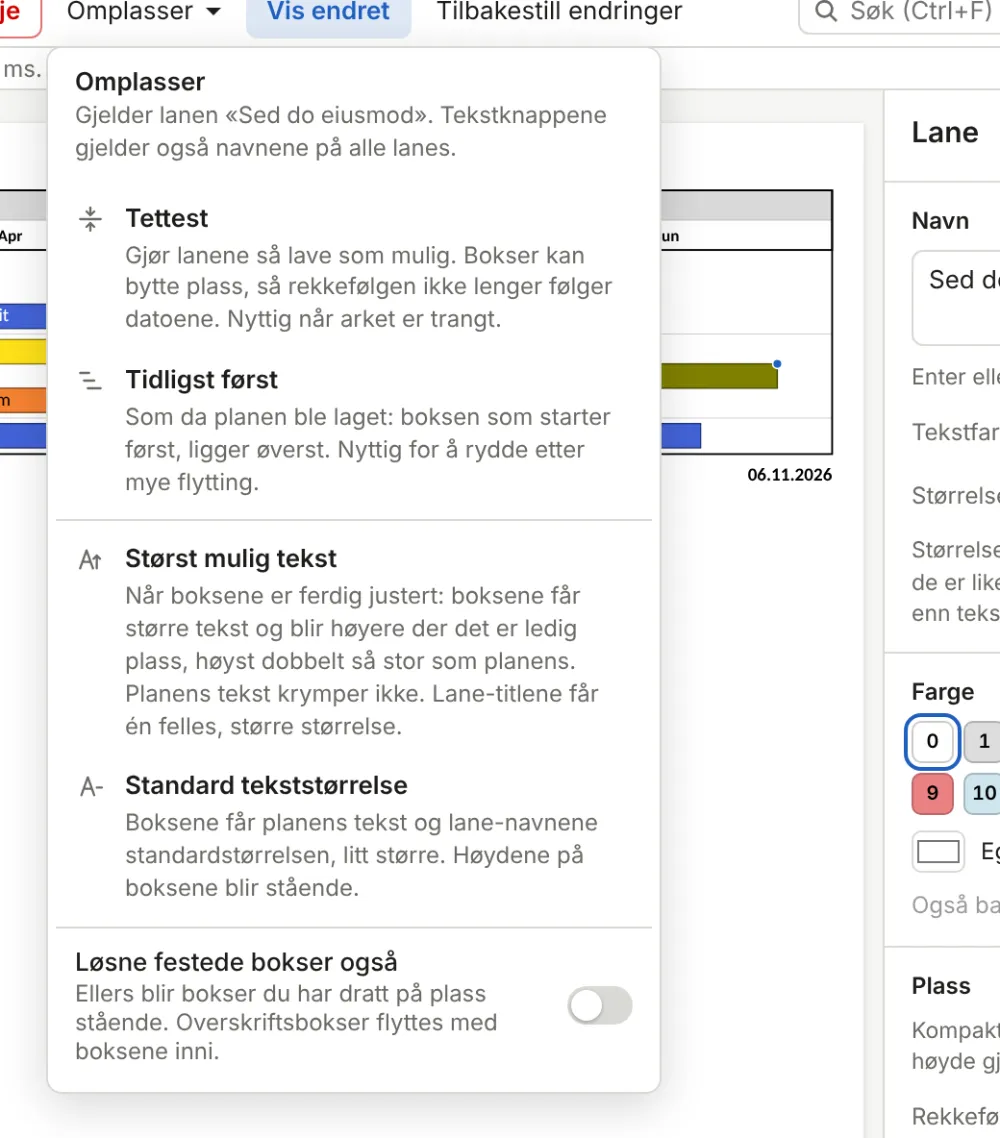
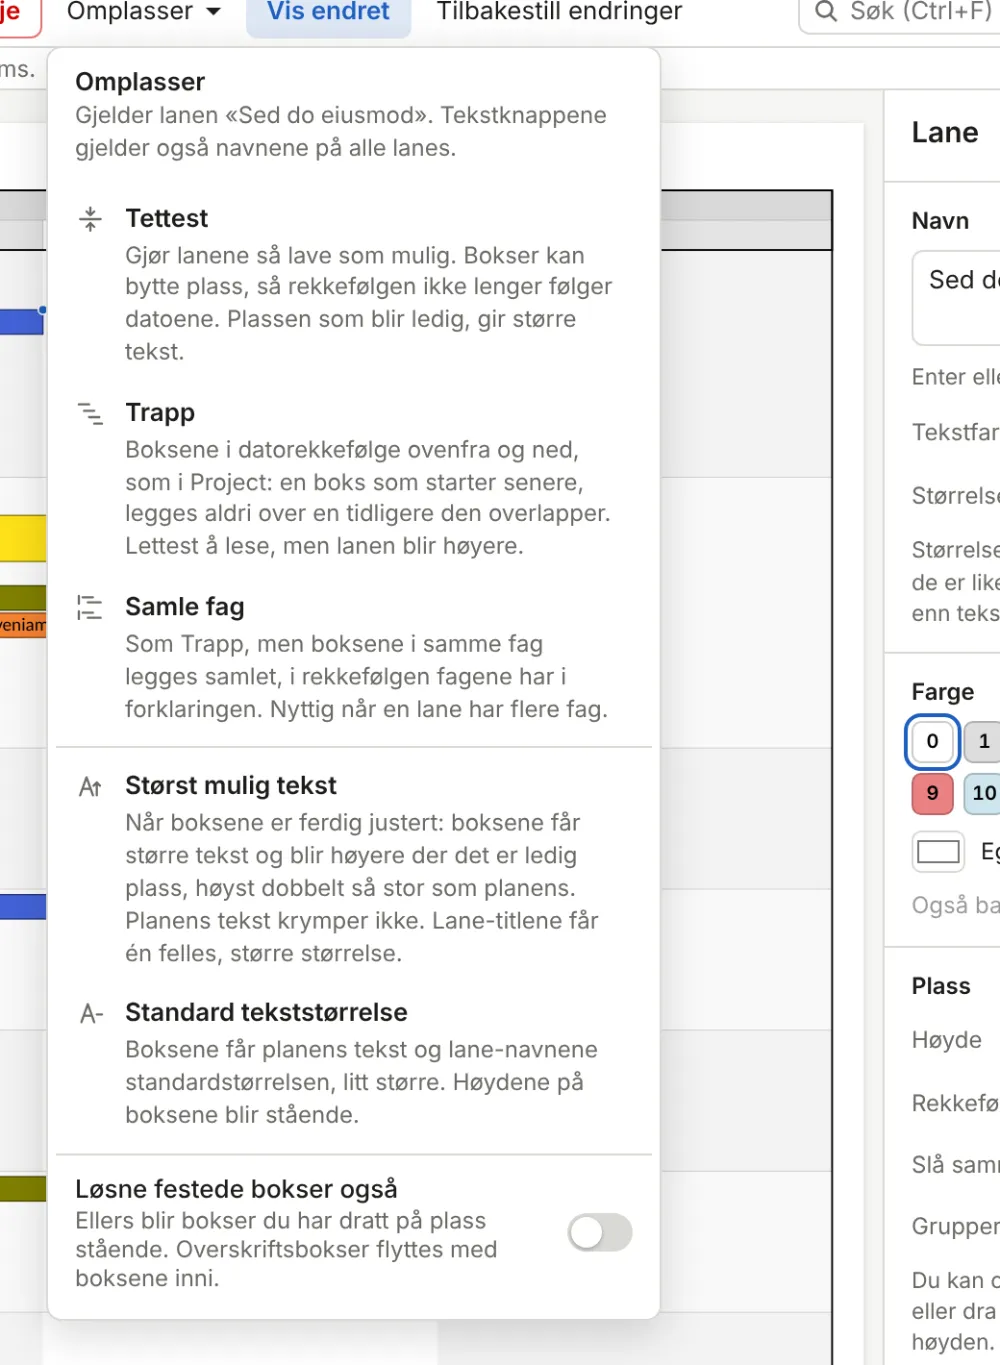
Omplasser: Trapp og Samle fag i stedet for Tidligst først, tydeligere Tettest
- Trapp: en boks som starter senere, legges aldri over en tidligere den overlapper.
- Samle fag: samme trapp, men gruppert på fag i forklaringens rekkefølge.
- Tettest søker på nytt ved ny tekststørrelse, og linjen øverst viser
  hvor mye lavere lanen ble, ny tekststørrelse og knappen Størst mulig tekst.
- Hjelpen forklarer de tre måtene med bilder før og etter hver av dem.

Claude-Session: https://claude.ai/code/session_01B5pQjgQFecxc1arbokWnNe

diff --git a/src/arrangeui.ts b/src/arrangeui.ts
@@ -1,7 +1,7 @@
 // «Omplasser» og «Størst mulig tekst» i redigeringen: menyen, forslaget, og linjen under verktøyene
 // der endringen kan beholdes eller angres. Boksene som ble flyttet, merkes til det er avgjort.
 import type { PlanFile } from './format/types';
-import type { ArrangeOptions, ArrangeResult, Item, Layout } from './layout/layout';
+import type { ArrangeMode, ArrangeOptions, ArrangeResult, Item, Layout } from './layout/layout';
 import { plainText } from './format/text';
 import { resetTextSizes, type FitTextResult, type FitTextScope } from './layout/fittext';
 import { bounds, findBox, findLane, inHeaderBox, laneOf, lines, samePlanApartFromImages, snapshotOf, unpinBox } from './editmodel';
@@ -30,8 +30,8 @@ export interface ArrangeUi {
   readonly moved: ReadonlySet<string>;
   /** Merker boksene som ble flyttet. */
   mark(ids: Iterable<string>): void;
-  /** Viser linjen med teksten, med «Behold» og «Angre», eller bare «Lukk». */
-  show(text: string, canUndo: boolean): void;
+  /** Viser linjen med teksten, med «Behold» og «Angre», eller bare «Lukk». offerFit: også «Størst mulig tekst». */
+  show(text: string, canUndo: boolean, offerFit?: boolean): void;
   /** Godtar endringen: linjen og merkingen blir borte. */
   end(): void;
 }
@@ -65,9 +65,11 @@ export function createArrangeUi(h: ArrangeHost): ArrangeUi {
     h.overlay();
   };
 
-  const show = (text: string, canUndo: boolean) => {
+  const show = (text: string, canUndo: boolean, offerFit = false) => {
     if (!bar) return;
     bar.querySelector('.arrange-text')!.textContent = text;
+    const fit = bar.querySelector<HTMLButtonElement>('#arrange-fit');
+    if (fit) fit.hidden = !offerFit;
     bar.querySelector<HTMLButtonElement>('#arrange-keep')!.textContent = canUndo ? 'Behold' : 'Lukk';
     bar.querySelector<HTMLButtonElement>('#arrange-undo')!.hidden = !canUndo;
     bar.hidden = false;
@@ -90,7 +92,7 @@ export function createArrangeUi(h: ArrangeHost): ArrangeUi {
     !!a && a.lane === b.lane && a.side === b.side && Math.abs(a.y - b.y) < 0.5;
   const contentLines = (L: Layout, ids: Set<string>) => L.lanes.filter((l) => ids.has(l.id)).reduce((s, l) => s + l.minH / L.unit, 0);
 
-  const arrange = (mode: 'tight' | 'chrono') => {
+  const arrange = (mode: ArrangeMode) => {
     const plan = h.getPlan();
     const before = h.layout();
     if (!plan || !before) return;
@@ -126,36 +128,51 @@ export function createArrangeUi(h: ArrangeHost): ArrangeUi {
       delete l.order;
       if (unpin) for (const b of l.boxes) if (inGroup.has(b.id) || (!b.header && (!boxIds || boxIds.has(b.id)))) unpinBox(b);
     }
-    if (mode === 'tight' || groups.size) {
-      const res = h.arrange(next, laneIds, { mode, groups });
+    /** again: andre søk i Tettest, der ingen ny rekkefølge betyr at den som er funnet, beholdes. */
+    const apply = (res: ArrangeResult, again = false) => {
       for (const [id, order] of res.orders) {
         const l = findLane(next, id);
-        if (l && order) l.order = order;
+        if (!l) continue;
+        if (order) l.order = order;
+        else if (!again) delete l.order;
       }
       for (const [id, top] of res.pins) {
         const b = findBox(next, id);
-        if (b) b.top = top;
+        if (!b) continue;
+        b.top = top;
+        delete b.compactTop;
       }
-    }
+    };
+    apply(h.arrange(next, laneIds, { mode, groups }));
     if (samePlanApartFromImages(next, plan)) {
-      show(mode === 'tight' ? 'Fant ingen tettere plassering. Alt står som før.' : 'Boksene ligger allerede tidligst først.', false);
+      show(mode === 'tight' ? 'Fant ingen tettere plassering. Alt står som før.' : 'Boksene ligger allerede slik. Alt står som før.', false);
       return;
     }
     h.beginStep();
     h.setPlan(next);
     h.redraw();
+    // Tettest finner rekkefølgen ved tekststørrelsen planen hadde. Fikk teksten plass til å vokse,
+    // søkes det én gang til ved den nye størrelsen, så forslaget passer teksten som faktisk tegnes.
+    if (mode === 'tight' && h.layout()!.textSizePt !== before.textSizePt) {
+      apply(h.arrange(next, laneIds, { mode, groups: new Map() }), true);
+      h.setPlan(next);
+      h.redraw();
+    }
     const after = h.layout()!;
     const p0 = placeOf(before);
     const p1 = placeOf(after);
     const ids = new Set(laneIds);
     const laneOfItem = new Map(next.lanes.flatMap((l) => l.boxes.map((b) => [b.id, l.id] as const)));
     moved = new Set([...p1].filter(([id, pos]) => ids.has(laneOfItem.get(id) ?? '') && !samePlace(p0.get(id), pos)).map(([id]) => id));
-    const saved = contentLines(before, ids) - contentLines(after, ids);
+    const h0 = contentLines(before, ids);
+    const saved = h0 - contentLines(after, ids);
     const n = moved.size;
     const count = n ? `${n} ${n === 1 ? 'boks' : 'bokser'} flyttet` : 'Ingen bokser flyttet';
-    const lower = saved > 0.05 ? `, ${saved.toLocaleString('nb-NO', { maximumFractionDigits: 1 })} ${saved < 1.05 && saved > 0.95 ? 'linje' : 'linjer'} lavere` : '';
-    const grew = after.textSizePt > before.textSizePt + 1e-6 ? `. Teksten ble ${after.textSizePt.toLocaleString('nb-NO')} pt` : '';
-    show(`${count}${lower}${grew}.`, true);
+    const pct = (v: number) => `${Math.round((Math.abs(v) / h0) * 100)} %`;
+    const what = laneIds.length === 1 ? 'lanen' : 'lanene';
+    const lower = saved > 0.05 ? `, ${what} ble ${pct(saved)} lavere` : saved < -0.05 ? `, ${what} ble ${pct(saved)} høyere` : '';
+    const grew = after.textSizePt > before.textSizePt + 1e-6 ? `. Planens tekst ble ${after.textSizePt.toLocaleString('nb-NO')} pt` : '';
+    show(`${count}${lower}${grew}.`, true, mode === 'tight' && saved > 0.05);
     h.overlay();
     h.refresh();
   };
@@ -200,7 +217,10 @@ export function createArrangeUi(h: ArrangeHost): ArrangeUi {
     if (tip) tip.hidden = !s.whole;
   });
   document.querySelector('#arrange-tight')?.addEventListener('click', () => arrange('tight'));
-  document.querySelector('#arrange-chrono')?.addEventListener('click', () => arrange('chrono'));
+  document.querySelector('#arrange-stair')?.addEventListener('click', () => arrange('stair'));
+  document.querySelector('#arrange-trade')?.addEventListener('click', () => arrange('trade'));
+  // Etter Tettest: bruk plassen som ble ledig til større tekst. Forslaget beholdes først.
+  bar?.querySelector('#arrange-fit')?.addEventListener('click', () => fitText(false));
   bar?.querySelector('#arrange-keep')?.addEventListener('click', () => end());
   bar?.querySelector('#arrange-undo')?.addEventListener('click', () => h.undo());
 

diff --git a/src/layout/layout.ts b/src/layout/layout.ts
@@ -365,6 +365,8 @@ export function packVariants(
   pieces: { alts: { fx0: number; fx1: number; h: number }[]; lock?: number; band?: number; bx?: [number, number] }[],
   gap = GAP,
   limit?: (fx0: number, fx1: number) => [number, number],
+  /** Trapp: en løs brikke legges aldri over en løs brikke foran i rekken som den overlapper i tid. */
+  stair = false,
 ): { y: number; k: number; bad?: boolean; h?: number }[] {
   const placed: { x0: number; x1: number; y0: number; y1: number }[] = [];
   // Overskriftsbokser: for bokser med fast plass er det bare tekstfeltet øverst som er opptatt
@@ -382,15 +384,19 @@ export function packVariants(
   // Overskriftsbokser først ved lik plass, så boksene inne i dem legges oppå
   const locked = order.filter((i) => pieces[i].lock !== undefined).sort((a, b) => lockAt[a]! - lockAt[b]! || (pieces[b].band !== undefined ? 1 : 0) - (pieces[a].band !== undefined ? 1 : 0));
   const free = order.filter((i) => pieces[i].lock === undefined);
+  // Trapp: tidsrommet (selve boksen, uten callout) og bunnen til løse brikker som er lagt
+  const laid: { x0: number; x1: number; y1: number }[] = [];
   for (const i of [...locked, ...free]) {
     // Overskriftsboksene blir høyere når boksene inni dem er skjøvet ned, før resten pakkes rundt dem
     if (i === free[0]) growHeaders();
     const p = pieces[i];
+    const span = p.bx ?? [p.alts[0].fx0, p.alts[0].fx1];
+    const below = stair && p.lock === undefined ? laid.filter((q) => span[0] < q.x1 - 1e-6 && q.x0 < span[1] - 1e-6).reduce((m, q) => Math.max(m, q.y1 + gap), 0) : 0;
     let best = { y: 0, k: 0, score: Infinity, w: Infinity, bad: false };
     p.alts.forEach((v, k) => {
       // Egendefinert planområde: brikken må ligge mellom kantene der den står
       const [lo, hi] = limit ? limit(v.fx0, v.fx1) : [0, Infinity];
-      const y = lowest(v, Math.max(lockAt[i] ?? 0, lo), p.lock !== undefined);
+      const y = lowest(v, Math.max(lockAt[i] ?? 0, lo, below), p.lock !== undefined);
       const bad = y + v.h > hi + 1e-6;
       // En variant som går utenfor kanten velges bare når ingen andre får plass
       const score = y + v.h + (bad ? 1e6 : 0);
@@ -401,6 +407,7 @@ export function packVariants(
     rectOf.set(i, placed.length);
     placed.push({ x0: v.fx0, x1: v.fx1, y0: best.y, y1: best.y + v.h });
     inner.push({ x0: v.fx0, x1: v.fx1, y0: best.y, y1: best.y + (p.band ?? v.h) });
+    if (stair && p.lock === undefined) laid.push({ x0: span[0], x1: span[1], y1: best.y + v.h });
     out[i] = best.bad ? { y: best.y, k: best.k, bad: true } : { y: best.y, k: best.k };
   }
   if (!free.length) growHeaders();
@@ -721,7 +728,25 @@ function layoutAt(file: PlanFile, opts: LayoutOptions, measure: Measure, scale: 
       const found = arrange.mode === 'tight' ? tightestOrder(work) : null;
       if (found) work = found;
       arrange.out.set(lane.id, found && found.map((p) => p.item.id));
-      if (work.some((p) => arrange.groups.has(p.item.id))) {
+      if (arrange.mode !== 'tight') {
+        // Trapp: i datorekkefølge, eller samlet per fag (i rekkefølgen i forklaringen) og så etter dato.
+        // Plassene lagres som fast plass, så trappen blir stående.
+        const tradeRank = new Map(tradeColors(file).map((c, k) => [c.name, k]));
+        const byId = new Map(lane.boxes.map((b) => [b.id, b]));
+        const rankOf = (p: Piece) => {
+          const b = byId.get(p.item.id);
+          const t = b ? boxTrade(b) : undefined;
+          return t === undefined ? Infinity : (tradeRank.get(t) ?? Infinity - 1);
+        };
+        work.sort((a, b) => (arrange.mode === 'trade' ? rankOf(a) - rankOf(b) : 0) || a.sortX - b.sortX || b.sortW - a.sortW);
+        const placed = packVariants(work.map((p) => ({ alts: p.alts ?? [p], lock: p.lock, band: p.band, bx: boxX(p) })), GAP, undefined, true);
+        work.forEach((p, j) => {
+          if (p.lock !== undefined) return;
+          const top = Math.round((placed[j].y / lh) * 100) / 100;
+          arrange.pins.set(p.item.id, top);
+          for (const k of arrange.groups.get(p.item.id) ?? []) arrange.pins.set(k.id, Math.round((top + k.dy) * 100) / 100);
+        });
+      } else if (work.some((p) => arrange.groups.has(p.item.id))) {
         // Overskriftsbokser har alltid fast plass: der den havnet, og boksene inni like langt ned som før
         const placed = packVariants(work.map((p) => ({ alts: p.alts ?? [p], lock: p.lock, band: p.band })));
         work.forEach((p, j) => {
@@ -1528,8 +1553,11 @@ export function applyOrder<T extends { item: { id: string }; sortX: number }>(pi
   return out;
 }
 
+/** tight: lavest mulig lane. stair: trapp i datorekkefølge. trade: trapp samlet per fag. */
+export type ArrangeMode = 'tight' | 'stair' | 'trade';
+
 export interface ArrangeOptions {
-  mode: 'tight' | 'chrono';
+  mode: ArrangeMode;
   /** Overskriftsbokser som skal flyttes, med boksene inni og hvor langt ned i den de står (tekstlinjer). */
   groups?: Map<string, { id: string; dy: number }[]>;
 }
@@ -1537,13 +1565,13 @@ export interface ArrangeOptions {
 export interface ArrangeResult {
   /** Ny rekkefølge per lane, eller null når den vanlige (tidligst først) er like tett. */
   orders: Map<string, string[] | null>;
-  /** Ny fast plass (tekstlinjer) for overskriftsboksene som ble flyttet og boksene inni dem. */
+  /** Ny fast plass (tekstlinjer): overskriftsboksene som ble flyttet og boksene inni dem, og i trapp alle boksene som ble lagt. */
   pins: Map<string, number>;
 }
 
 interface ArrangeRequest {
   lanes: Set<string>;
-  mode: 'tight' | 'chrono';
+  mode: ArrangeMode;
   groups: Map<string, { id: string; dy: number }[]>;
   out: Map<string, string[] | null>;
   pins: Map<string, number>;

diff --git a/src/help/content.ts b/src/help/content.ts
@@ -291,21 +291,23 @@ export const TOPICS: HelpTopic[] = [
   },
   {
     id: 'omplasser', group: 'Arket', title: 'Omplasser: rydd lanene',
-    text: `${ui('Omplasser')} legger boksene i lanene på plass på nytt. Du velger mellom to måter, ser forslaget på arket med de flyttede boksene merket, og trykker ${ui('Behold')} eller ${ui('Angre')}.`,
-    when: `<strong>Tettest</strong> gjør lanene så lave som mulig. Boksene kan da bytte plass, så den som starter først, ikke alltid ligger øverst. Velg den når arket er trangt og du vil ha plass til større tekst. Den gjør mest når boksene er ulikt høye eller har callouts; ellers blir resultatet ofte det samme som Tidligst først. <strong>Tidligst først</strong> legger boksene i datorekkefølge som da planen ble laget. Velg den for å rydde opp etter mye flytting. Bokser du har dratt på plass, blir stående, med mindre du slår på ${ui('Løsne festede bokser også')}.`,
+    text: `${ui('Omplasser')} legger boksene i lanene på plass på nytt. Du velger mellom tre måter, ser forslaget på arket med de flyttede boksene merket, og trykker ${ui('Behold')} eller ${ui('Angre')}. Linjen øverst sier hvor mange bokser som ble flyttet, og hvor mye lavere eller høyere lanen ble.`,
+    when: `<strong>Tettest</strong> gjør lanene så lave som mulig, og boksene kan da bytte plass. Velg den når arket er trangt. Plassen som blir ledig, gir planen større tekst, og linjen øverst tilbyr ${ui('Størst mulig tekst')} for å bruke resten. <strong>Trapp</strong> legger boksene i datorekkefølge ovenfra og ned, som i Project: en boks som starter senere, havner aldri over en tidligere den overlapper. Den er lettest å lese, men lanen blir høyere. <strong>Samle fag</strong> er en trapp der boksene i samme fag ligger samlet, i rekkefølgen fagene har i forklaringen. Velg den når en lane har flere fag. Bokser du har dratt på plass, blir stående, med mindre du slår på ${ui('Løsne festede bokser også')}.`,
     steps: [
       `Klikk lane-navnet til lanen som er blitt rotete, så gjelder det bare den lanen.`,
-      `Velg ${ui('Omplasser')} › ${ui('Tidligst først')}.`,
-      `Se forslaget. Linjen øverst sier hvor mange bokser som ble flyttet og hvor mye lavere lanen ble. Trykk ${ui('Behold')} eller ${ui('Angre')}.`,
+      `Velg ${ui('Omplasser')} › ${ui('Trapp')}, og slå på ${ui('Løsne festede bokser også')} hvis boksene er dratt på plass.`,
+      `Se forslaget. Er lanen blitt for høy, trykker du ${ui('Angre')} og prøver ${ui('Tettest')} i stedet. Trykk ${ui('Behold')} når du er fornøyd.`,
     ],
     img: {
       frames: [
         { img: 'omplasser-1', label: 'Før', note: 'Etter mye flytting står boksene spredt, med hull mellom. De blå prikkene viser at de er dratt på plass.' },
-        { img: 'omplasser-2', label: 'Etter', note: 'Etter «Tidligst først» med «Løsne festede bokser også»: hullene er borte, og den som starter først, ligger øverst.' },
+        { img: 'omplasser-2', label: 'Tettest', note: 'Lanen ble 21 % lavere. Boksene står tett, men ikke i datorekkefølge.' },
+        { img: 'omplasser-3', label: 'Trapp', note: 'Boksene går i trapp etter startdato. Lettest å lese, men lanen ble høyere.' },
+        { img: 'omplasser-4', label: 'Samle fag', note: 'Hvert fag samlet, i rekkefølgen fra forklaringen, og i trapp innenfor faget.' },
       ],
     },
-    alt: 'En rotete lane før og etter Omplasser › Tidligst først.',
-    words: 'pakke rydde tettest tidligst først stable orden rekkefølge løsne festede', see: ['omplasser-lane', 'skyv', 'tekst'],
+    alt: 'En rotete lane før, og etter Omplasser › Tettest, Trapp og Samle fag.',
+    words: 'pakke rydde tettest trapp samle fag tidligst først datorekkefølge stable orden rekkefølge løsne festede lavere høyere', see: ['omplasser-lane', 'storsttekst', 'skyv'],
   },
   {
     id: 'omplasser-lane', group: 'Arket', title: 'Omplasser bare én lane eller noen bokser',
@@ -317,7 +319,7 @@ export const TOPICS: HelpTopic[] = [
   {
     id: 'storsttekst', group: 'Arket', title: 'Størst mulig tekst',
     text: `${ui('Omplasser')} › ${ui('Størst mulig tekst')} gir hver boks så stor tekst som det er plass til, høyst dobbelt så stor som planens. Boksene blir høyere der det er ledig plass, og lane-navnene får én felles, større størrelse.`,
-    when: `Ta det til slutt, når boksene står der de skal. Da utnytter du den ledige plassen på arket, og planen blir lettere å lese på utskrift. ${ui('Standard tekststørrelse')} tar teksten tilbake.`,
+    when: `Ta det til slutt, når boksene står der de skal. Etter ${ui('Omplasser')} › ${ui('Tettest')} finner du samme knapp i linjen øverst. Da utnytter du den ledige plassen på arket, og planen blir lettere å lese på utskrift. ${ui('Standard tekststørrelse')} tar teksten tilbake.`,
     words: 'tekststørrelse større tekst lesbar fyll plass', see: ['tekst', 'omplasser'],
   },
   {

diff --git a/index.html b/index.html
@@ -322,11 +322,15 @@
       <div class="pm-group">
         <button type="button" id="arrange-tight" class="pm-item">
           <svg class="ctx-ico" viewBox="0 0 24 24" aria-hidden="true"><path d="M4 12h16 M12 3v6 M9 6l3 3 3-3 M12 21v-6 M9 18l3-3 3 3"/></svg>
-          <span class="pm-text"><strong>Tettest</strong><span class="pm-desc">Gjør lanene så lave som mulig. Bokser kan bytte plass, så rekkefølgen ikke lenger følger datoene. Nyttig når arket er trangt.</span></span>
+          <span class="pm-text"><strong>Tettest</strong><span class="pm-desc">Gjør lanene så lave som mulig. Bokser kan bytte plass, så rekkefølgen ikke lenger følger datoene. Plassen som blir ledig, gir større tekst.</span></span>
         </button>
-        <button type="button" id="arrange-chrono" class="pm-item">
-          <svg class="ctx-ico" viewBox="0 0 24 24" aria-hidden="true"><path d="M4 6h7 M7 12h8 M10 18h10"/></svg>
-          <span class="pm-text"><strong>Tidligst først</strong><span class="pm-desc">Som da planen ble laget: boksen som starter først, ligger øverst. Nyttig for å rydde etter mye flytting.</span></span>
+        <button type="button" id="arrange-stair" class="pm-item">
+          <svg class="ctx-ico" viewBox="0 0 24 24" aria-hidden="true"><path d="M3 5h8 M7 10h8 M11 15h8 M15 20h6"/></svg>
+          <span class="pm-text"><strong>Trapp</strong><span class="pm-desc">Boksene i datorekkefølge ovenfra og ned, som i Project: en boks som starter senere, legges aldri over en tidligere den overlapper. Lettest å lese, men lanen blir høyere.</span></span>
+        </button>
+        <button type="button" id="arrange-trade" class="pm-item">
+          <svg class="ctx-ico" viewBox="0 0 24 24" aria-hidden="true"><path d="M3 3v6 M3 15v6 M6 4h8 M10 8h10 M6 16h8 M10 20h10"/></svg>
+          <span class="pm-text"><strong>Samle fag</strong><span class="pm-desc">Som Trapp, men boksene i samme fag legges samlet, i rekkefølgen fagene har i forklaringen. Nyttig når en lane har flere fag.</span></span>
         </button>
       </div>
       <div class="pm-group" role="group" aria-label="Tekst">
@@ -515,6 +519,7 @@
         </div>
         <div id="arrange-bar" class="focus-bar arrange-bar no-print" role="status" hidden>
           <span class="arrange-text"></span>
+          <button type="button" class="tb" id="arrange-fit" hidden title="Gir boksene større tekst der det nå er ledig plass. Forslaget beholdes.">Størst mulig tekst</button>
           <button type="button" class="tb" id="arrange-keep">Behold</button>
           <button type="button" class="tb" id="arrange-undo" title="Tilbake til slik det var (Ctrl+Z)">Angre</button>
         </div>

diff --git a/src/layout/layout.test.ts b/src/layout/layout.test.ts
@@ -743,7 +743,7 @@ describe('omplassering', () => {
     expect(kb.y + kb.h).toBeLessThanOrEqual(hb.y + hb.h + 1e-6);
     delete head.top;
     delete kid.top;
-    const { pins } = arrangeLanes(p, opts, approxMeasure, [p.lanes[1].id], { mode: 'chrono', groups: new Map([[head.id, [{ id: kid.id, dy: 2 }]]]) });
+    const { pins } = arrangeLanes(p, opts, approxMeasure, [p.lanes[1].id], { mode: 'stair', groups: new Map([[head.id, [{ id: kid.id, dy: 2 }]]]) });
     expect(pins.get(head.id)).toBe(0);
     expect(pins.get(kid.id)).toBe(2);
   });

diff --git a/src/help/help.test.ts b/src/help/help.test.ts
@@ -29,6 +29,8 @@ describe('hjelpen', () => {
     expect(searchTopics('ordsomikkefinnes')).toHaveLength(0);
     expect(searchTopics('ctrl skyv')[0].id).toBe('skyv');
     expect(searchTopics('tettest').map((t) => t.id)).toContain('omplasser');
+    expect(searchTopics('samle fag').map((t) => t.id)).toContain('omplasser');
+    expect(searchTopics('trapp').map((t) => t.id)).toContain('omplasser');
   });
   it('ser bort fra HTML i teksten', () => {
     expect(searchTopics('span')).toHaveLength(0);
